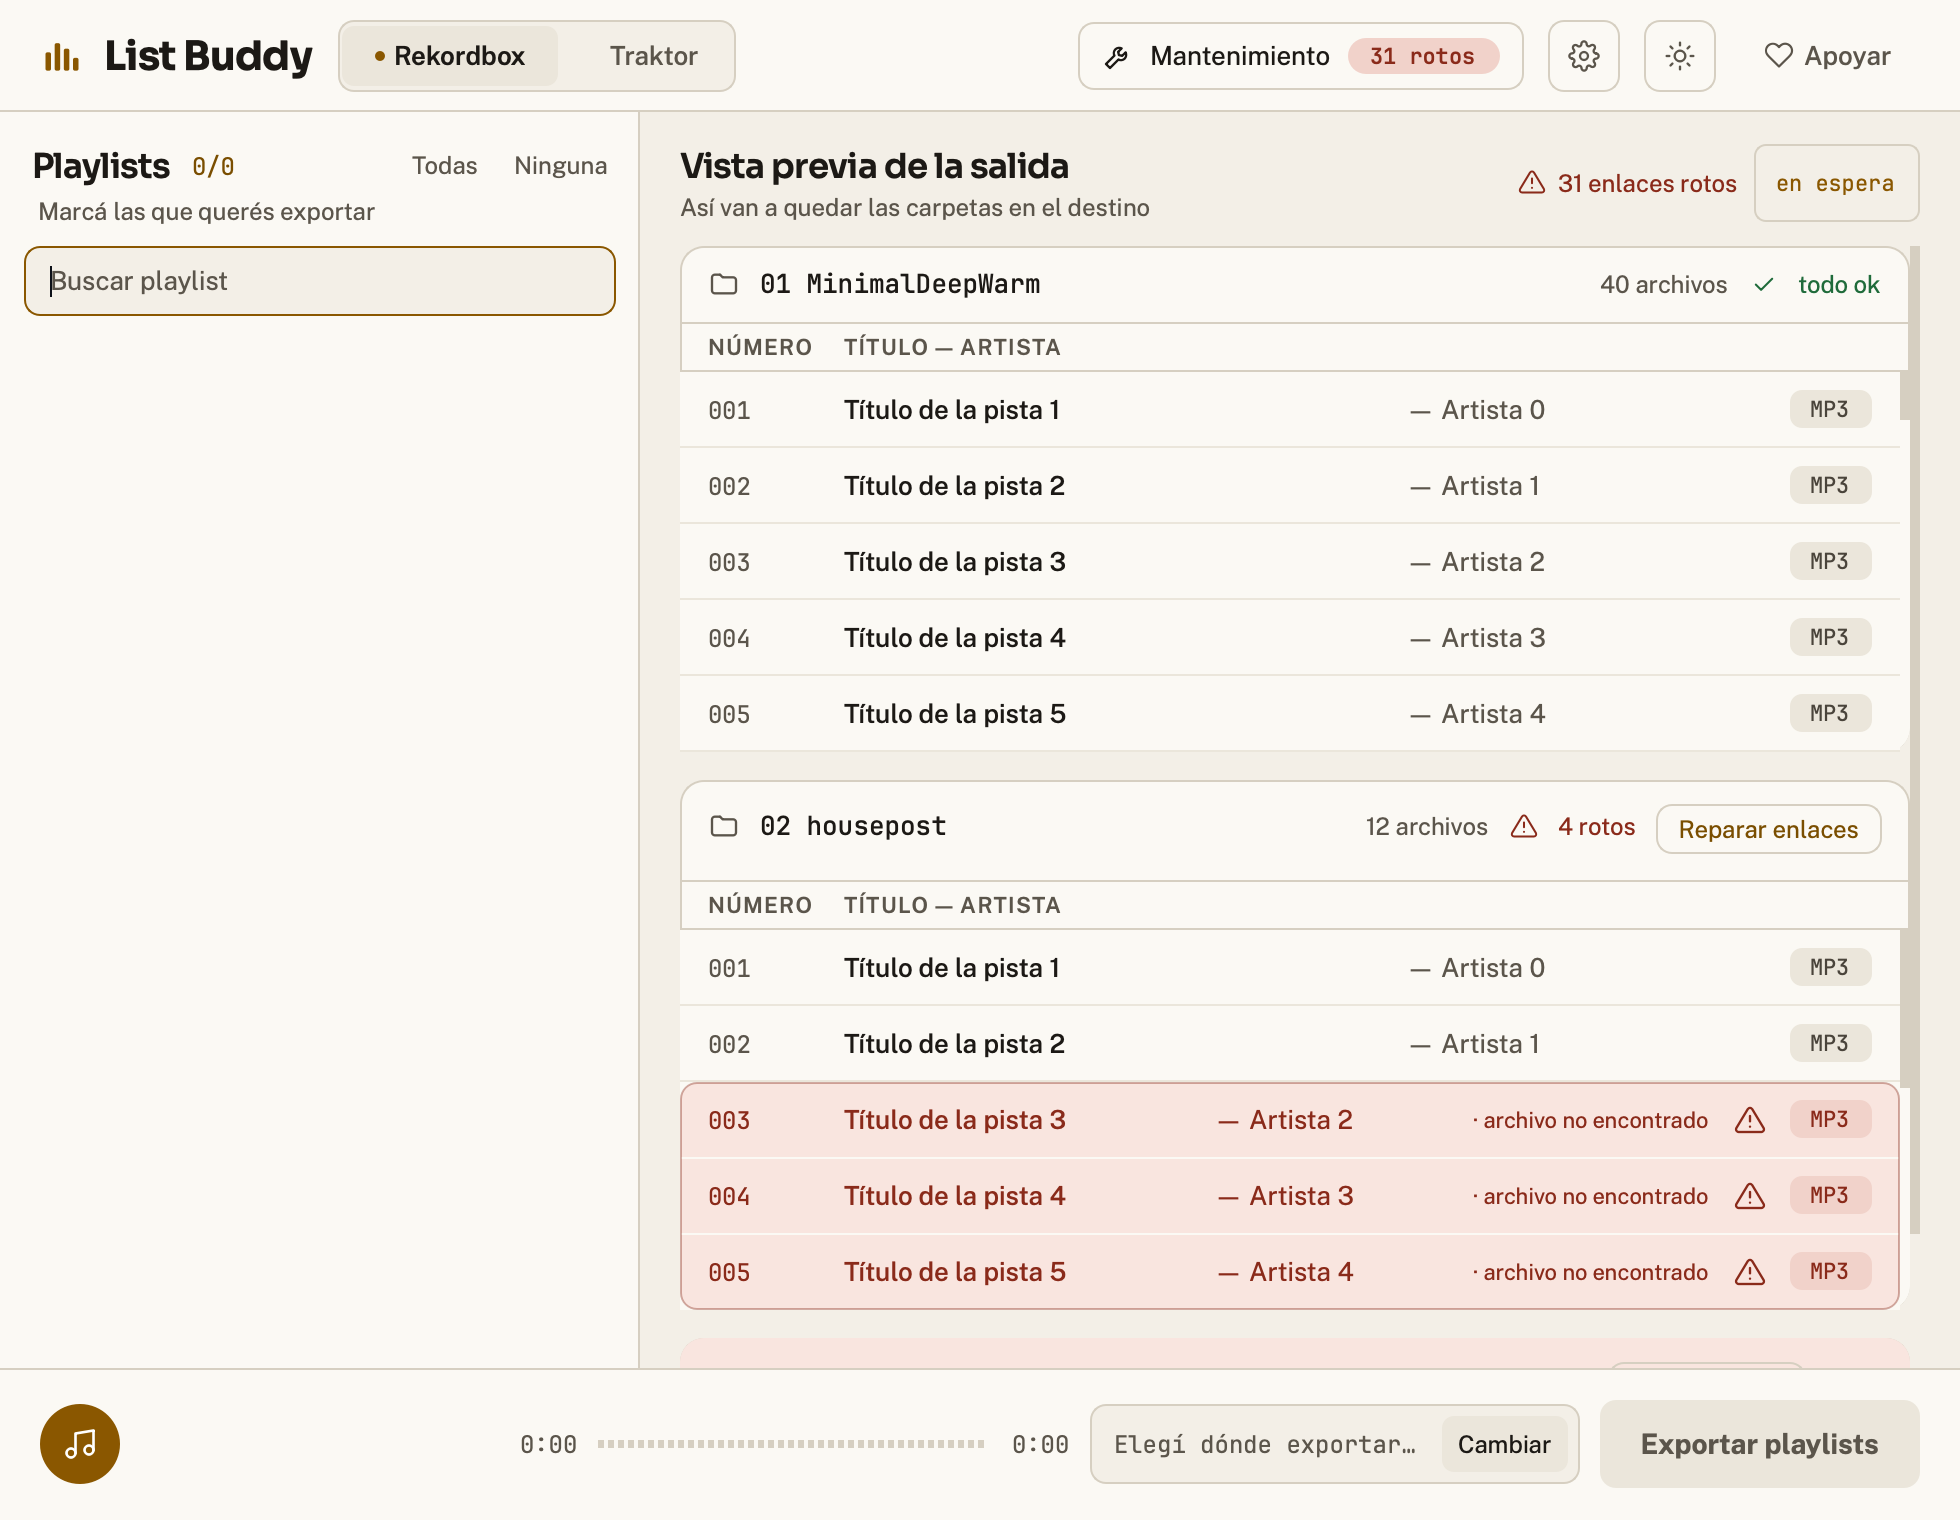
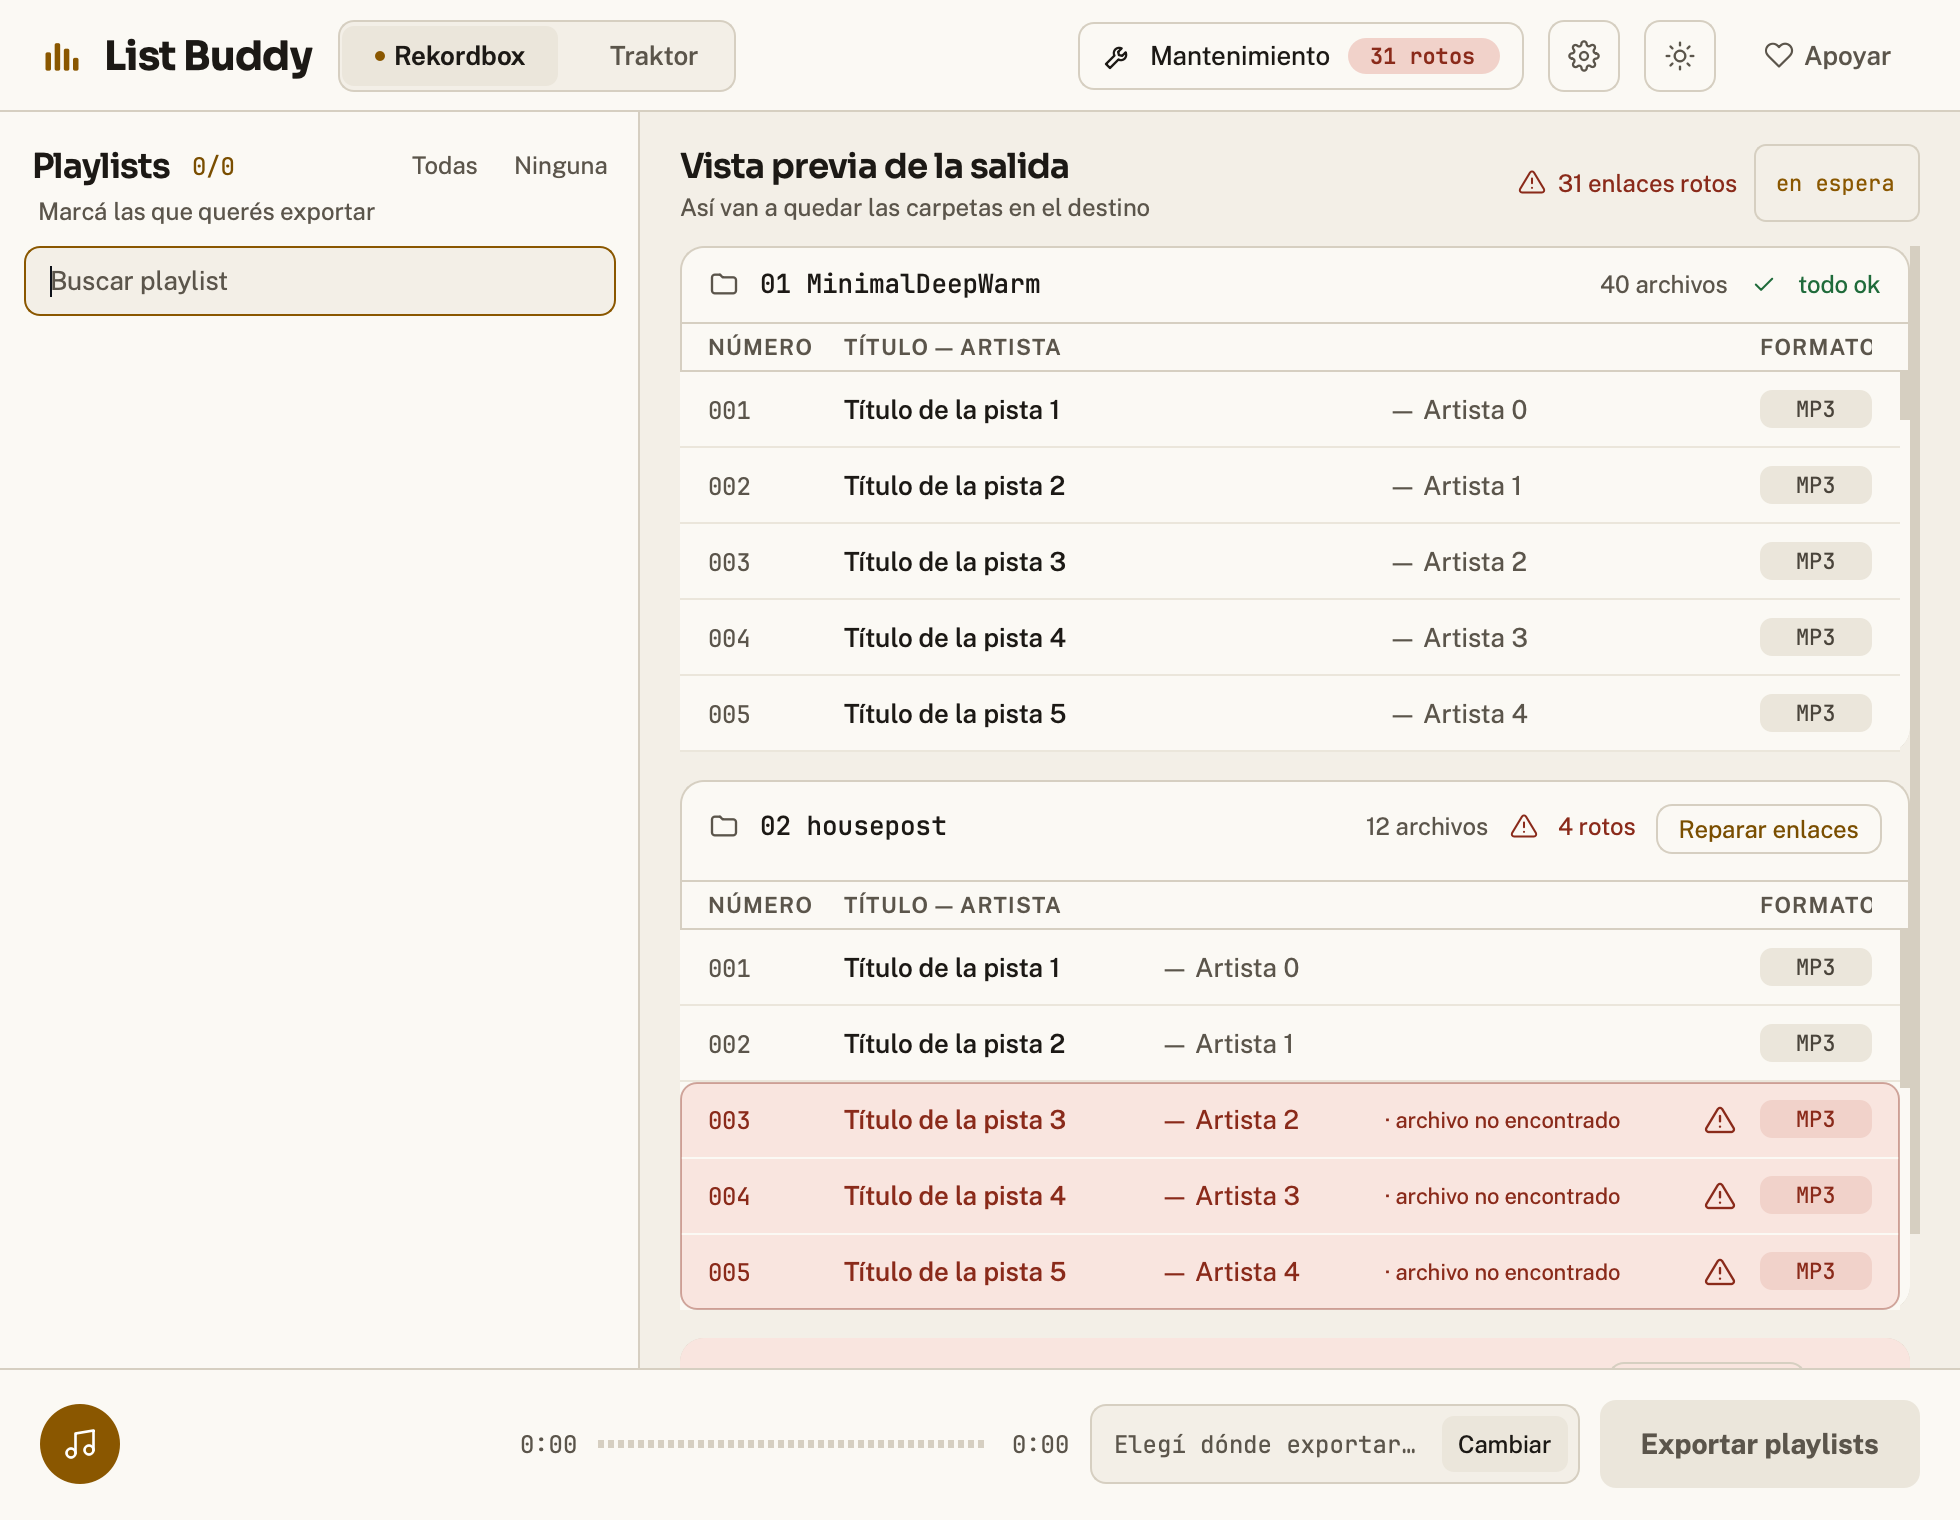
T-065: FORMATO sin recorte (ancho = sizeHint, test)

diff --git a/tests/test_preview_column.py b/tests/test_preview_column.py
@@ -341,7 +341,8 @@ def test_column_header_shows_the_three_labels_aligned_with_the_row_columns() -> 
         "labs = {l.text(): l for l in c.cols.findChildren(QLabel, 'card_col_label')}\n"
         "row = c.findChildren(FileRow)[0]\n"
         "x = lambda wd: wd.mapTo(c, wd.rect().topLeft()).x()\n"
-        "ok = all(labs[k].isVisible() and labs[k].width() > 0 for k in ('NÚMERO', 'TÍTULO — ARTISTA', 'FORMATO'))\n"
+        "ok = all(labs[k].isVisible() and labs[k].width() >= labs[k].sizeHint().width()\n"
+        "         for k in ('NÚMERO', 'TÍTULO — ARTISTA', 'FORMATO'))\n"
         "print(sorted(labs), ok,\n"
         "      x(labs['NÚMERO']) == x(row.findChild(QLabel, 'output_file_idx')),\n"
         "      x(labs['TÍTULO — ARTISTA']) == x(row.findChild(QLabel, 'output_file_name')),\n"

diff --git a/preview_card.py b/preview_card.py
@@ -18,7 +18,7 @@ from ui_components import broken_badge_text
 ROW_HEIGHT = 38
 # Anchos compartidos con las filas (ui._make_row_widget) para que la cabecera de columnas alinee.
 IDX_W = 56
-CHIP_W = 56
+CHIP_W = 68
 NOTE_W = 150    # «· archivo no encontrado»
 WARN_W = 16
 ROW_GAP = 12
